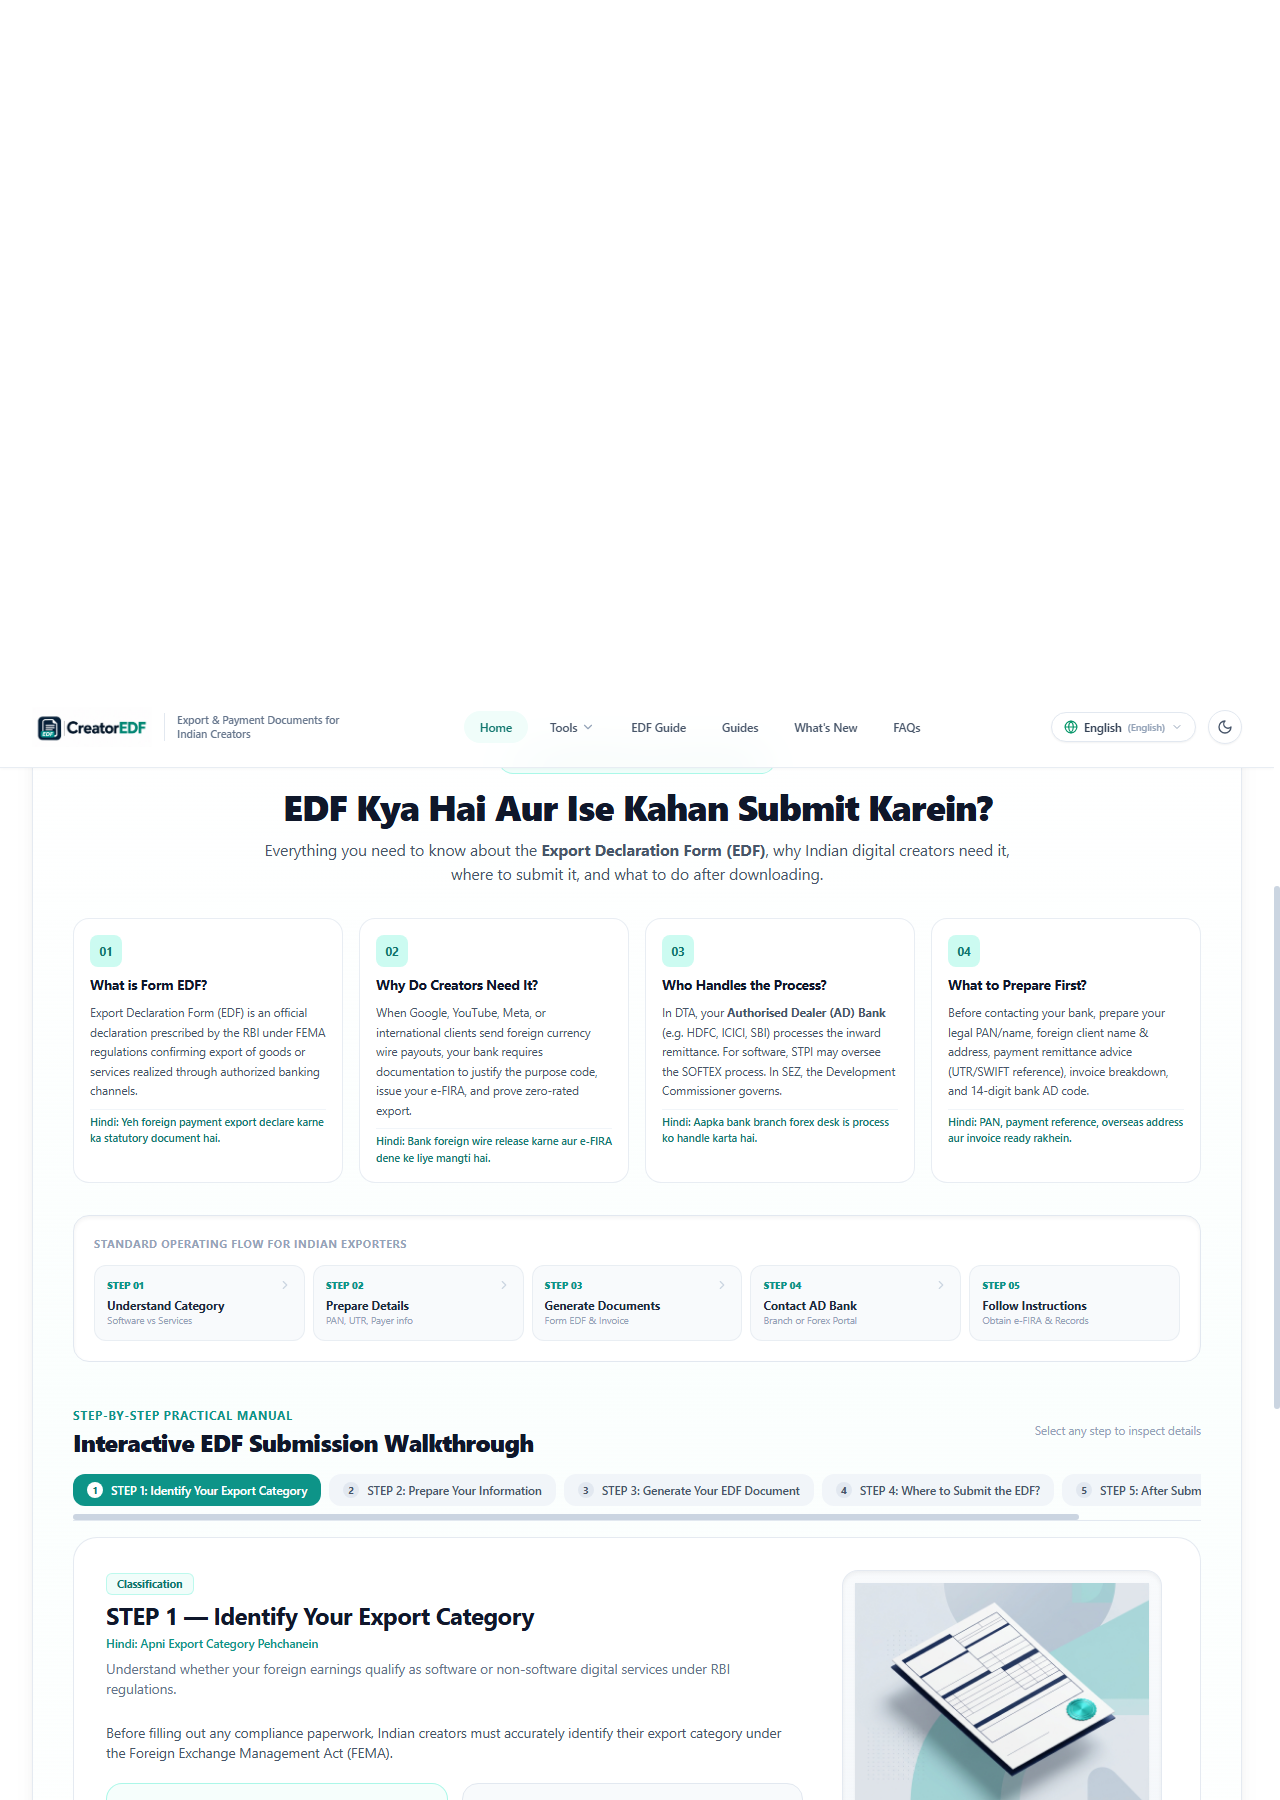
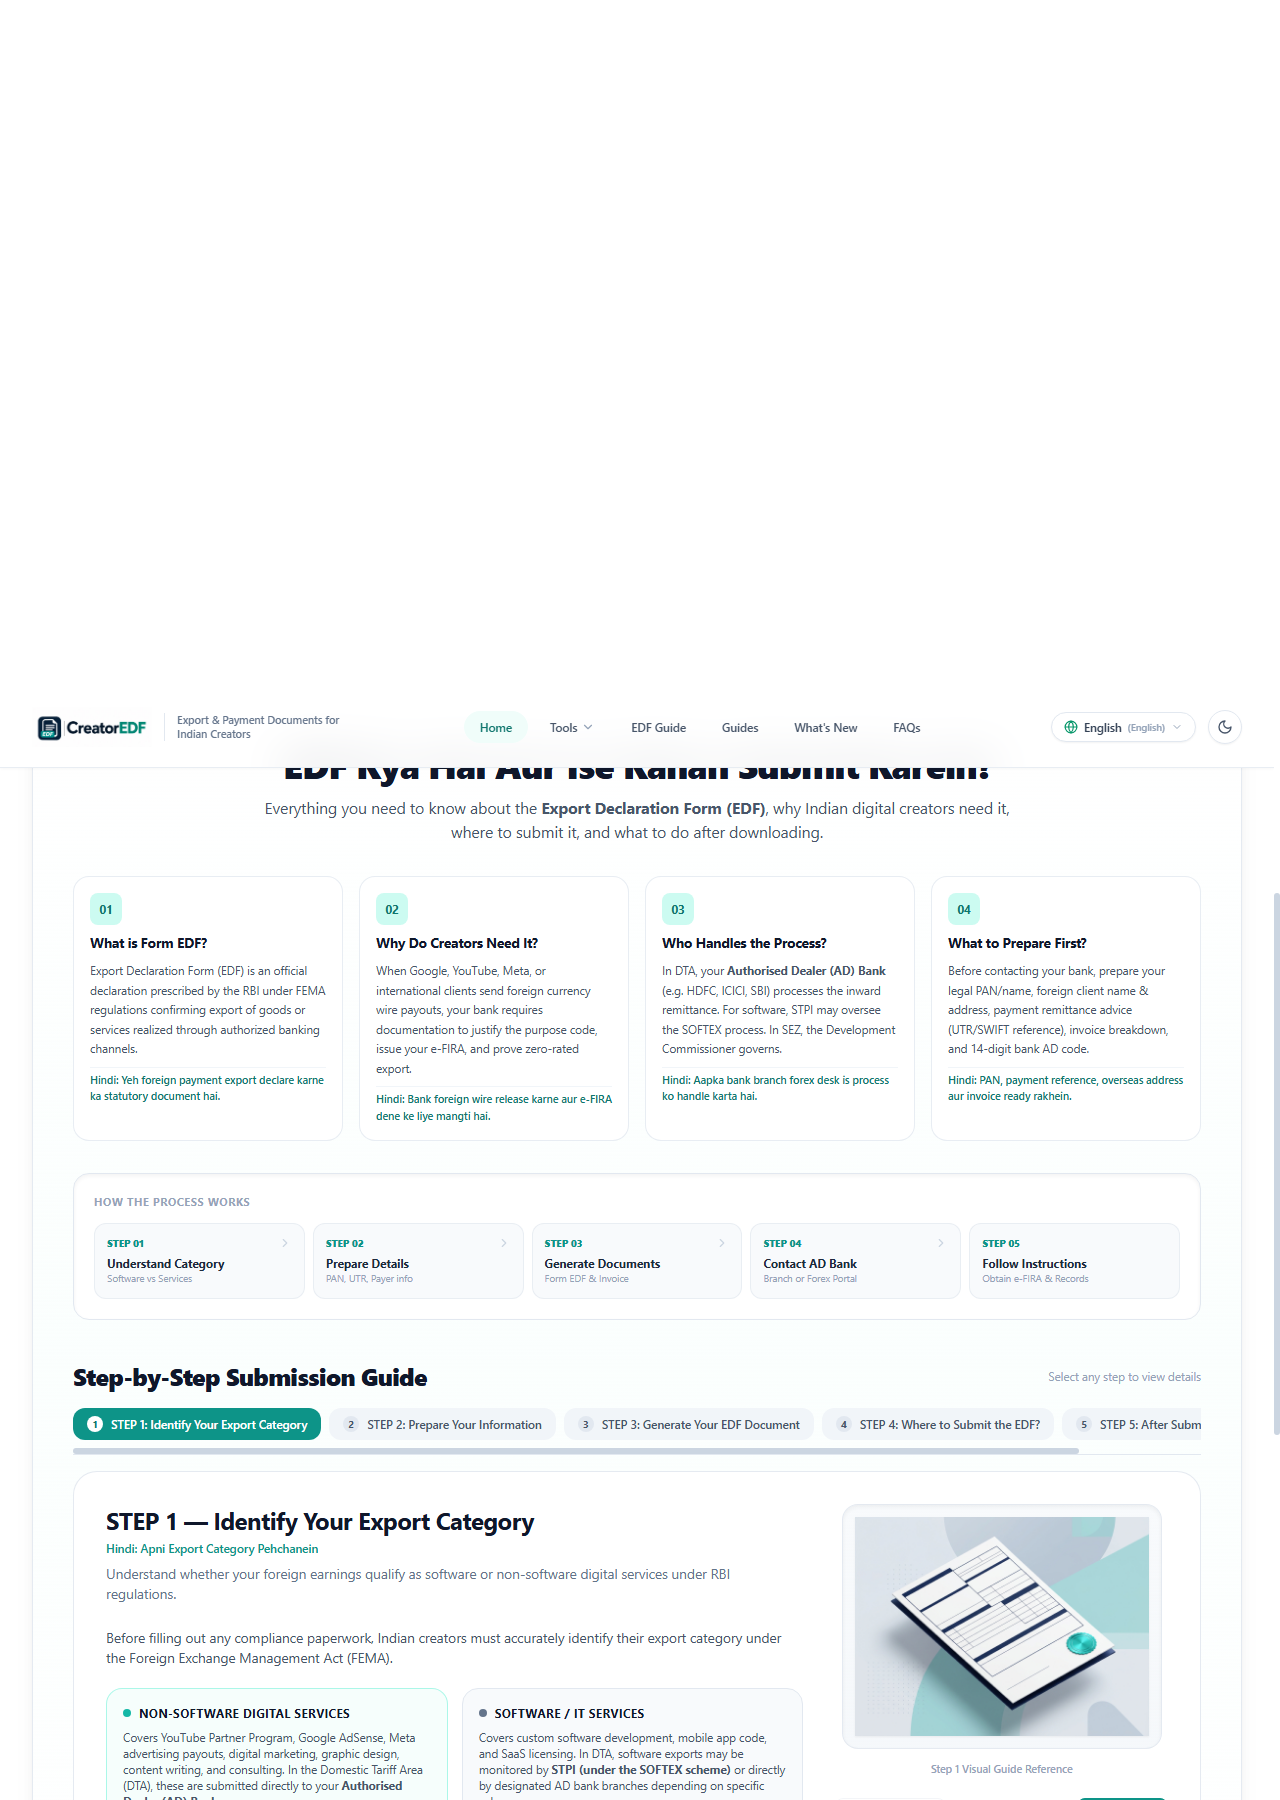
style: remove artificial AI marketing badges and humanize copy

diff --git a/src/app/page.jsx b/src/app/page.jsx
@@ -35,12 +35,6 @@ export default function HomePage() {
           <div className="grid grid-cols-1 lg:grid-cols-12 gap-12 lg:gap-8 items-center">
             {/* Left Column: Headline & CTA */}
             <div className="lg:col-span-7 space-y-6">
-              {/* Creator Badge (Clean teal/slate token without flag emojis or saffron) */}
-              <div className="inline-flex items-center gap-2 px-3.5 py-1.5 rounded-full bg-white/90 dark:bg-slate-900/90 backdrop-blur-md border border-slate-200/90 dark:border-slate-700/80 text-xs font-semibold text-slate-700 dark:text-slate-200 shadow-2xs">
-                <span className="w-2 h-2 rounded-full bg-teal-500 animate-pulse"></span>
-                <span>{t("heroBadge")}</span>
-              </div>
-
               {/* Main Headline */}
               <h1 className="text-3xl sm:text-4xl md:text-5xl lg:text-[3.25rem] font-extrabold text-slate-900 dark:text-white tracking-tight leading-[1.12]">
                 {t("heroTitleLine1")} <br />
@@ -168,11 +162,7 @@ export default function HomePage() {
           2. MAIN TOOLS SECTION: 3 PROMINENT CARDS WITH ORIGINAL 3D ART (4K Studio)
           ========================================================================= */}
       <section id="tools" className="max-w-7xl mx-auto px-4 sm:px-6 lg:px-8 pt-4">
-        <div className="text-center space-y-2.5 max-w-2xl mx-auto mb-10">
-          <div className="inline-flex items-center gap-1.5 px-3 py-1 rounded-full bg-teal-50 dark:bg-teal-950/60 border border-teal-200/80 dark:border-teal-800 text-[11px] font-bold text-teal-700 dark:text-teal-300">
-            <Sparkles className="w-3.5 h-3.5 text-teal-500" />
-            <span>{t("toolsSectionLabel")}</span>
-          </div>
+        <div className="text-center space-y-2 max-w-2xl mx-auto mb-10">
           <h2 className="text-2xl sm:text-3xl md:text-4xl font-extrabold text-slate-900 dark:text-white tracking-tight">
             {t("toolsSectionTitle")}
           </h2>
@@ -297,9 +287,6 @@ export default function HomePage() {
           {/* Left Side: 3-Step Process (7 cols) */}
           <div className="lg:col-span-7 bg-white dark:bg-slate-900 border border-slate-200/90 dark:border-slate-800 rounded-3xl p-6 sm:p-8 shadow-4k-card flex flex-col justify-between ring-1 ring-slate-900/5 dark:ring-white/5">
             <div>
-              <div className="inline-flex items-center gap-1.5 px-3 py-1 rounded-full bg-slate-100 dark:bg-slate-800 border border-slate-200/80 dark:border-slate-700 text-[11px] font-bold text-slate-700 dark:text-slate-300 mb-3">
-                <span>Simple 3-Step Flow</span>
-              </div>
               <h3 className="text-xl sm:text-2xl font-extrabold text-slate-900 dark:text-white tracking-tight">
                 {t("howTitle")}
               </h3>
@@ -394,9 +381,6 @@ export default function HomePage() {
                   <h3 className="text-xl font-bold text-slate-900 dark:text-white tracking-tight">
                     {t("guidesCardTitle")}
                   </h3>
-                  <span className="text-[11px] text-teal-700 dark:text-teal-400 font-semibold">
-                    Indian Regulatory Compliance
-                  </span>
                 </div>
               </div>
 
@@ -449,11 +433,6 @@ export default function HomePage() {
 
             {/* Right Information & Guarantees */}
             <div className="lg:col-span-7 space-y-4">
-              <div className="inline-flex items-center gap-2 px-3 py-1 rounded-full bg-teal-950/80 border border-teal-700/60 text-teal-400 text-xs font-semibold shadow-2xs">
-                <ShieldCheck className="w-3.5 h-3.5" />
-                <span>100% In-Browser Privacy Architecture</span>
-              </div>
-
               <h3 className="text-2xl sm:text-3xl font-extrabold tracking-tight text-white leading-tight">
                 Your Financial Data Never Leaves Your Device
               </h3>
@@ -468,8 +447,8 @@ export default function HomePage() {
                     <Lock className="w-4 h-4 text-teal-400" />
                   </div>
                   <div>
-                    <span className="text-xs font-bold block text-white">Local IndexedDB Storage</span>
-                    <span className="text-[11px] text-slate-400 leading-normal">Profiles are saved only in your local browser sandbox.</span>
+                    <span className="text-xs font-bold block text-white">Saved in your browser</span>
+                    <span className="text-[11px] text-slate-400 leading-normal">Your information is saved only on your device.</span>
                   </div>
                 </div>
 
@@ -478,8 +457,8 @@ export default function HomePage() {
                     <Cpu className="w-4 h-4 text-teal-400" />
                   </div>
                   <div>
-                    <span className="text-xs font-bold block text-white">Client-Side PDF Engine</span>
-                    <span className="text-[11px] text-slate-400 leading-normal">PDFs are compiled locally in memory and downloaded directly.</span>
+                    <span className="text-xs font-bold block text-white">Direct PDF download</span>
+                    <span className="text-[11px] text-slate-400 leading-normal">Documents are created locally and downloaded directly.</span>
                   </div>
                 </div>
               </div>

diff --git a/src/components/home/EdfEducationGuide.jsx b/src/components/home/EdfEducationGuide.jsx
@@ -331,11 +331,6 @@ export function EdfEducationGuide() {
           ========================================================================= */}
       <div className="bg-gradient-to-b from-white via-teal-50/30 to-white dark:from-slate-900 dark:via-teal-950/20 dark:to-slate-900 border border-slate-200/90 dark:border-slate-800 rounded-3xl p-6 sm:p-10 shadow-4k-card ring-1 ring-slate-900/5 dark:ring-white/5 space-y-8">
         <div className="text-center max-w-3xl mx-auto space-y-3">
-          <div className="inline-flex items-center gap-2 px-3.5 py-1.5 rounded-full bg-teal-50 dark:bg-teal-950/80 border border-teal-200/80 dark:border-teal-800 text-xs font-bold text-teal-700 dark:text-teal-300">
-            <BookOpen className="w-3.5 h-3.5 text-teal-500" />
-            <span>Complete Beginner&apos;s Compliance Manual</span>
-          </div>
-
           <h2 className="text-2xl sm:text-3xl md:text-4xl font-extrabold text-slate-900 dark:text-white tracking-tight">
             EDF Kya Hai Aur Ise Kahan Submit Karein?
           </h2>
@@ -418,7 +413,7 @@ export function EdfEducationGuide() {
             ========================================================================= */}
         <div className="p-4 sm:p-5 rounded-2xl bg-white dark:bg-slate-800/90 border border-slate-200 dark:border-slate-700/80 shadow-inner">
           <div className="text-[11px] font-bold uppercase tracking-wider text-slate-400 dark:text-slate-500 mb-3 text-center sm:text-left">
-            Standard Operating Flow for Indian Exporters
+            How the Process Works
           </div>
 
           <div className="grid grid-cols-1 sm:grid-cols-5 gap-2 relative">
@@ -460,14 +455,11 @@ export function EdfEducationGuide() {
         <div className="space-y-4 pt-2">
           <div className="flex flex-col sm:flex-row sm:items-center justify-between gap-2">
             <div>
-              <span className="text-xs font-bold text-teal-600 dark:text-teal-400 uppercase tracking-wider">
-                Step-by-Step Practical Manual
-              </span>
               <h3 className="text-xl sm:text-2xl font-extrabold text-slate-900 dark:text-white">
-                Interactive EDF Submission Walkthrough
+                Step-by-Step Submission Guide
               </h3>
             </div>
-            <span className="text-xs text-slate-400">Select any step to inspect details</span>
+            <span className="text-xs text-slate-400">Select any step to view details</span>
           </div>
 
           {/* Step Navigation Tabs */}
@@ -498,9 +490,6 @@ export function EdfEducationGuide() {
               {/* Left Column: Explanations */}
               <div className="lg:col-span-8 space-y-4">
                 <div className="space-y-1">
-                  <div className="inline-flex items-center gap-1.5 px-2.5 py-0.5 rounded-md bg-teal-50 dark:bg-teal-950/80 text-[11px] font-bold text-teal-700 dark:text-teal-300 border border-teal-200/60 dark:border-teal-800">
-                    <span>{currentStepData.badge}</span>
-                  </div>
                   <h4 className="text-xl sm:text-2xl font-bold text-slate-900 dark:text-white">
                     STEP {currentStepData.id} — {currentStepData.title}
                   </h4>
@@ -564,3 +553,4 @@ export function EdfEducationGuide() {
     </section>
   );
 }
+

diff --git a/src/data/changelog.js b/src/data/changelog.js
@@ -8,24 +8,24 @@ export const changelogEntries = [
   {
     version: "v2.5.0",
     date: "November 13, 2026",
-    title: "EDF Education & Submission Guide + Interactive Next Step Finder",
-    category: "Regulatory & Education",
+    title: "EDF Education & Submission Guide + Next Step Finder",
+    category: "Education & Compliance",
     tagColor: "teal",
-    description: "Added a comprehensive, beginner-friendly EDF Education & Submission Guide explaining RBI Form EDF, export classification, DTA vs SEZ authorities, and deemed submission conditions under RBI Notification (FEMA Export of Goods and Services Regulations). Included an interactive 'Find My Next Step' diagnostic tool and regulatory citations.",
+    description: "Added a step-by-step EDF Education & Submission Guide explaining RBI Form EDF, export classification, DTA vs SEZ authorities, and deemed submission rules. Included a practical 'Find Your Next Step' guide and bank question checklist.",
     highlights: [
       "Bilingual explanation (English & Hindi) of Form EDF and export realization",
       "5-Step Submission Guide covering software vs non-software export authorities",
-      "Interactive 'Find My Next Step' wizard with custom bank questioning checklist",
+      "Interactive 'Find Your Next Step' guide with custom bank question checklist",
       "Official RBI Notification reference citations and last-reviewed tracking"
     ]
   },
   {
     version: "v2.4.0",
     date: "November 13, 2026",
-    title: "4K Ultra-HD Studio Finish & In-Browser Cookie Privacy Toast",
+    title: "4K Ultra-HD Finish & In-Browser Cookie Privacy Toast",
     category: "Design & UX",
     tagColor: "navy",
-    description: "Upgraded the visual architecture to a 4K Ultra-HD studio aesthetic with subpixel font smoothing, ambient glow lighting, micro-grid backdrop, and multi-tier depth shadows. Converted top alert into a sleek floating in-browser privacy cookie toast.",
+    description: "Upgraded to a 4K Ultra-HD finish with crisp typography, ambient glow lighting, micro-grid backdrop, and refined depth shadows. Converted top alert into a sleek floating in-browser privacy cookie toast.",
     highlights: [
       "Subpixel text antialiasing with refined letter tracking (-0.025em)",
       "Ambient teal mesh glow and 24px micro-grid background textures",
@@ -86,3 +86,4 @@ export const changelogEntries = [
     ]
   }
 ];
+

diff --git a/src/components/home/WhatsNewSection.jsx b/src/components/home/WhatsNewSection.jsx
@@ -14,16 +14,12 @@ export function WhatsNewSection() {
       <div className="bg-white dark:bg-slate-900 border border-slate-200/90 dark:border-slate-800 rounded-3xl p-6 sm:p-10 shadow-4k-card ring-1 ring-slate-900/5 dark:ring-white/5 space-y-8">
         {/* Section Header */}
         <div className="flex flex-col sm:flex-row sm:items-end justify-between gap-4 pb-6 border-b border-slate-100 dark:border-slate-800">
-          <div className="space-y-2">
-            <div className="inline-flex items-center gap-1.5 px-3 py-1 rounded-full bg-teal-50 dark:bg-teal-950/60 border border-teal-200/80 dark:border-teal-800 text-[11px] font-bold text-teal-700 dark:text-teal-300">
-              <History className="w-3.5 h-3.5 text-teal-500" />
-              <span>Release History & Platform Changelog</span>
-            </div>
+          <div className="space-y-1">
             <h3 className="text-2xl sm:text-3xl font-extrabold text-slate-900 dark:text-white tracking-tight">
               What&apos;s New at CreatorEDF
             </h3>
             <p className="text-xs sm:text-sm text-slate-500 dark:text-slate-400">
-              A transparent, chronological record of actual feature releases, PDF engine updates, and regulatory compliance improvements.
+              Recent updates, document fixes, and feature additions.
             </p>
           </div>
 
@@ -115,3 +111,4 @@ export function WhatsNewSection() {
     </section>
   );
 }
+

diff --git a/src/components/home/FindNextStepWizard.jsx b/src/components/home/FindNextStepWizard.jsx
@@ -93,15 +93,11 @@ export function FindNextStepWizard() {
       {/* Header */}
       <div className="flex flex-col sm:flex-row sm:items-center justify-between gap-4 pb-6 border-b border-slate-100 dark:border-slate-800">
         <div>
-          <div className="inline-flex items-center gap-1.5 px-3 py-1 rounded-full bg-teal-50 dark:bg-teal-950/60 border border-teal-200/80 dark:border-teal-800 text-[11px] font-bold text-teal-700 dark:text-teal-300 mb-2">
-            <Sparkles className="w-3.5 h-3.5 text-teal-500" />
-            <span>Interactive Diagnostic Tool</span>
-          </div>
           <h3 className="text-xl sm:text-2xl font-extrabold text-slate-900 dark:text-white tracking-tight">
-            Find My Next Step: Interactive EDF Advisor
+            Find Your Next Step
           </h3>
           <p className="text-xs sm:text-sm text-slate-500 dark:text-slate-400 mt-1">
-            Answer 4 simple questions to receive customized regulatory guidance and questions for your bank.
+            Answer 4 simple questions to see what to prepare and what to ask your bank.
           </p>
         </div>
 
@@ -580,3 +576,4 @@ export function FindNextStepWizard() {
     </div>
   );
 }
+

diff --git a/src/app/payment-reconciliation/page.jsx b/src/app/payment-reconciliation/page.jsx
@@ -21,19 +21,14 @@ export default function PaymentReconciliationPage() {
   return (
     <div className="max-w-5xl mx-auto space-y-6">
       {/* Header */}
-      <div className="flex flex-col sm:flex-row sm:items-center justify-between gap-4 border-b border-slate-200 pb-5">
+      <div className="border-b border-slate-200 pb-5">
         <div>
           <h1 className="text-2xl font-bold text-navy-800 tracking-tight">
-            Foreign Remittance & Payment Reconciliation
+            Payment Reconciliation
           </h1>
           <p className="text-xs text-slate-500 mt-1">
-            Reconcile platform remittance advices with bank credit notifications, monitor intermediary fees, and track FEMA 9-month realization windows.
+            Track foreign remittances, compare bank receipts, and keep records for tax filing.
           </p>
-        </div>
-
-        <div className="inline-flex items-center gap-1.5 px-3 py-1 rounded-full bg-emerald-100 border border-emerald-200 text-emerald-800 text-xs font-semibold self-start sm:self-auto">
-          <CheckCircle2 className="w-3.5 h-3.5" />
-          <span>FEMA Realisation Monitor</span>
         </div>
       </div>
 

diff --git a/src/app/exporter-profile/page.jsx b/src/app/exporter-profile/page.jsx
@@ -55,19 +55,14 @@ export default function ExporterProfilePage() {
   return (
     <div className="max-w-4xl mx-auto space-y-6">
       {/* Header */}
-      <div className="flex flex-col sm:flex-row sm:items-center justify-between gap-4 border-b border-slate-200 pb-5">
+      <div className="border-b border-slate-200 pb-5">
         <div>
           <h1 className="text-2xl font-bold text-navy-800 tracking-tight">
-            Exporter & Supplier Profile
+            Exporter Profile
           </h1>
           <p className="text-xs text-slate-500 mt-1">
-            Configure your legal creator identity, tax registrations, and bank details. Stored 100% locally in your browser.
+            Enter your details for Form EDF, Export Invoices, and bank letters. Information stays on your device.
           </p>
-        </div>
-
-        <div className="inline-flex items-center gap-1.5 px-3 py-1 rounded-full bg-slate-100 border border-slate-200 text-xs text-navy-800 font-medium self-start sm:self-auto">
-          <ShieldCheck className="w-3.5 h-3.5 text-emerald-600" />
-          <span>Local IndexedDB Only</span>
         </div>
       </div>
 

diff --git a/src/app/guides/page.jsx b/src/app/guides/page.jsx
@@ -48,10 +48,6 @@ export default function GuidesPage() {
       {/* Header Card with 3D Manuals Illustration */}
       <div className="bg-white dark:bg-slate-900 border border-slate-200 dark:border-slate-800 rounded-3xl p-6 sm:p-8 shadow-xs flex flex-col md:flex-row items-center justify-between gap-6">
         <div className="space-y-2 max-w-xl">
-          <div className="inline-flex items-center gap-2 px-3 py-1 rounded-full bg-teal-50 dark:bg-teal-950/60 text-teal-700 dark:text-teal-400 text-xs font-semibold">
-            <BookOpen className="w-3.5 h-3.5" />
-            <span>Creator Knowledge & Help</span>
-          </div>
           <h1 className="text-2xl sm:text-3xl font-extrabold text-slate-900 dark:text-white tracking-tight">
             Simple Compliance Guides for Indian Creators
           </h1>

diff --git a/src/app/downloads/page.jsx b/src/app/downloads/page.jsx
@@ -45,7 +45,7 @@ export default function DownloadsPage() {
       <div className="bg-white border border-slate-200 rounded-xl shadow-sm overflow-hidden">
         <div className="px-5 py-3 border-b border-slate-100 flex items-center justify-between">
           <h3 className="font-bold text-navy-800 text-sm">Download Archive</h3>
-          <span className="text-xs text-slate-400">{downloads.length} files in IndexedDB</span>
+          <span className="text-xs text-slate-400">{downloads.length} files saved</span>
         </div>
 
         <div className="divide-y divide-slate-100">

diff --git a/src/app/document-generator/page.jsx b/src/app/document-generator/page.jsx
@@ -195,9 +195,6 @@ export default function DocumentGeneratorPage() {
             />
           </div>
           <div>
-            <div className="inline-flex items-center gap-1.5 px-2.5 py-0.5 rounded-full bg-teal-50 dark:bg-teal-950/60 text-teal-700 dark:text-teal-400 text-[11px] font-semibold mb-1">
-              <span>Client-Side Document Engine</span>
-            </div>
             <h1 className="text-xl sm:text-2xl font-extrabold text-slate-900 dark:text-white tracking-tight">
               Export Document Generator
             </h1>

diff --git a/src/components/layout/PrivacyBanner.jsx b/src/components/layout/PrivacyBanner.jsx
@@ -35,7 +35,7 @@ export function PrivacyBanner() {
           <div className="flex-1 space-y-1.5">
             <div className="flex items-center justify-between">
               <h4 className="text-xs font-bold text-slate-900 dark:text-white tracking-tight flex items-center gap-1.5">
-                <span>100% In-Browser Privacy</span>
+                <span>Privacy Notice</span>
                 <span className="w-1.5 h-1.5 rounded-full bg-teal-500"></span>
               </h4>
               <button
